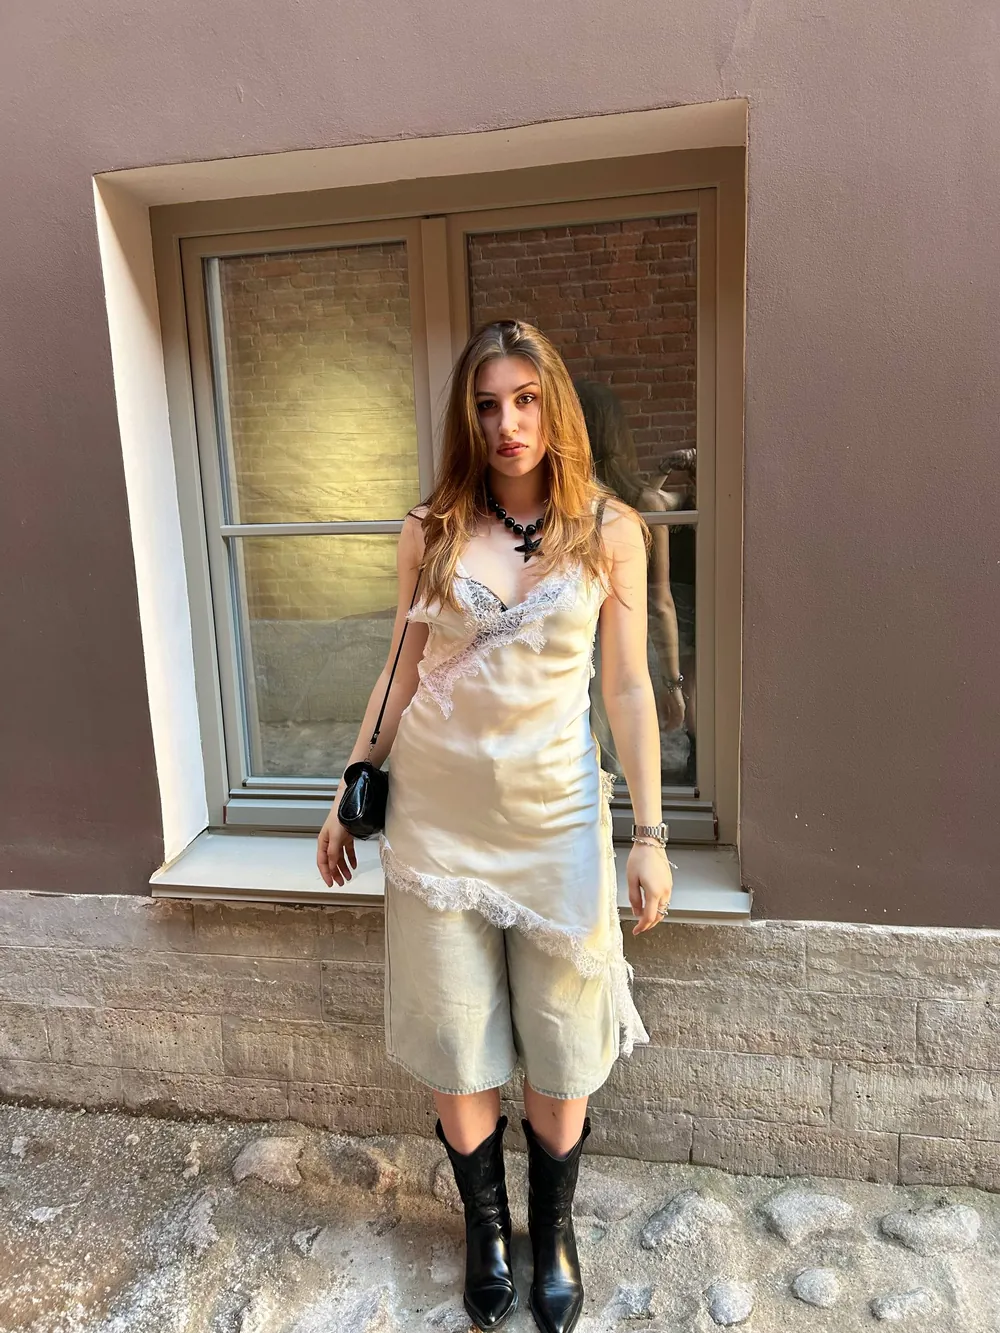
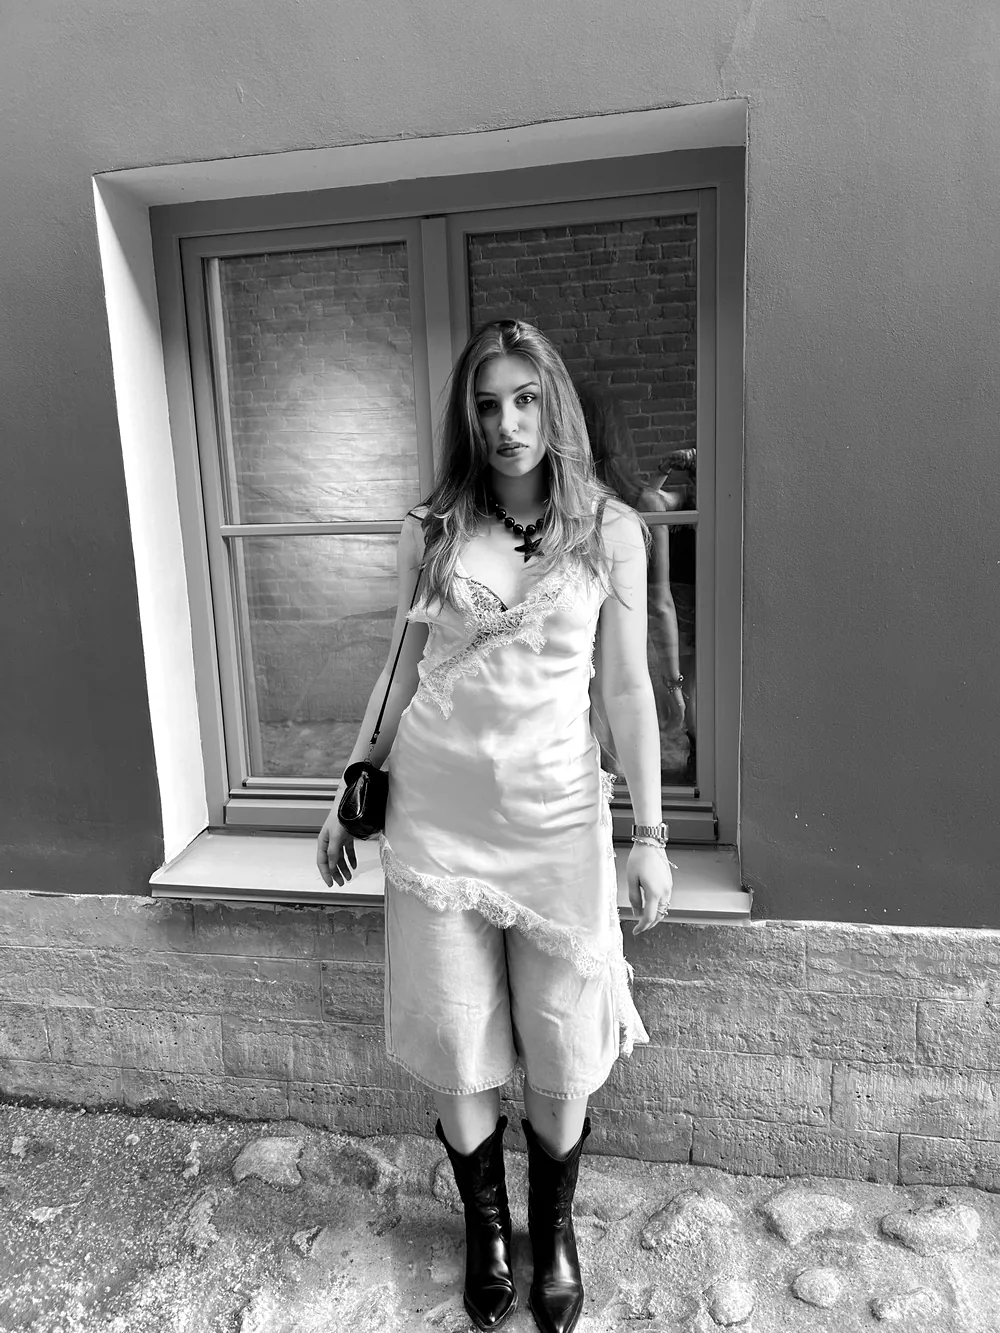
Вольтна: логотип на обложке и в кейсе; фото «Обо мне» в ч/б
Карта площадки перенесена в материалы кейса.

Claude-Session: https://claude.ai/code/session_015zZ5Pzd8E1bGNfEnNc31Jt

diff --git a/js/content.js b/js/content.js
@@ -310,7 +310,8 @@ window.CONTENT = {
 
     {
       slug: 'voltna',
-      thumb: 'img/voltna-site-map-card.webp',
+      thumb: 'img/voltna-logo.webp',
+      thumbFit: 'contain',
       card: {
         ru: { title: 'Фестиваль «Вольтна»', period: 'апр–июн 2026', type: 'Концепция', line: 'Концепция серф-музыкального фестиваля во Владивостоке: название, айдентика, план площадки, смета' },
         en: { title: 'VOLTNA festival', period: 'Apr–Jun 2026', type: 'Concept', line: 'Concept for a surf and music festival in Vladivostok: name, identity, site plan, budget' }
@@ -357,11 +358,11 @@ window.CONTENT = {
         ru: 'Готовая концепция фестиваля, защищённая в университете: от названия и карты площадки до бюджета и плана развития на три года.',
         en: 'A complete festival concept, defended at the university: from the name and site map to the budget and a three-year growth plan.'
       },
-      hero: 'img/voltna-site-map.webp',
-      heroLink: true,
+      hero: 'img/voltna-logo.webp',
+      heroFit: 'logo',
       link: { href: 'docs/voltna-presentation.pdf', ru: 'Смотреть презентацию', en: 'View presentation', note: { ru: 'ПДФ, 18 слайдов', en: 'PDF, 18 slides' } },
       docs: [
-        { src: 'img/voltna-logo.webp', ru: 'логотип', en: 'logo', cls: 'doc--logo' },
+        { src: 'img/voltna-site-map.webp', ru: 'план площадки', en: 'site plan', cls: 'doc--wide' },
         { src: 'img/voltna-moodboard.webp', ru: 'мудборд', en: 'moodboard' },
         { src: 'img/voltna-budget-slide.webp', ru: 'смета', en: 'budget' }
       ],

diff --git a/css/style.css b/css/style.css
@@ -244,7 +244,10 @@ button { font: inherit; color: inherit; cursor: pointer; }
 .docs { display: grid; gap: 22px; }
 .doc { margin: 0; background: var(--white); border: 1px solid var(--line); padding: 8px; }
 .doc figcaption { color: var(--ink-2); padding: 8px 2px 0; }
-.doc--logo img { max-height: 120px; width: auto; margin: 10px auto; }
+.card__thumb--contain { background: var(--white); border-bottom: 1px solid var(--line); }
+.card__thumb--contain img { object-fit: contain; object-position: center; padding: 8% 10%; }
+.cs-hero--logo { background: var(--white); border: 1px solid var(--line); padding: 28px 8%; }
+.cs-hero--logo img { max-width: 520px; margin: 0 auto; }
 
 /* табло отправлений */
 .board { background: var(--ink); color: var(--paper); font-family: var(--f-mono); padding: 6px 16px; margin: 0 0 32px; }
@@ -318,7 +321,7 @@ button { font: inherit; color: inherit; cursor: pointer; }
   .board__row--head { display: grid; font-size: 11px; text-transform: uppercase; letter-spacing: .08em; color: rgba(237, 237, 232, .5); padding: 12px 0 10px; }
   .board__fmt, .board__who { padding-left: 0; }
   .docs { grid-template-columns: 1fr 1fr; }
-  .doc--logo { grid-column: 1 / -1; }
+  .doc--wide { grid-column: 1 / -1; }
 }
 
 /* ---------- Десктоп ---------- */

diff --git a/js/app.js b/js/app.js
@@ -81,7 +81,7 @@
     $('#cards').innerHTML = C.cases.map(function (c, i) {
       var t = c.card[lang];
       return '<li class="reveal"><a class="card" href="#' + c.slug + '" data-case="' + c.slug + '">' +
-        (c.thumb ? '<span class="card__thumb">' + img(c.thumb, '').replace('loading="lazy"', 'loading="eager"') + '</span>' : '') +
+        (c.thumb ? '<span class="card__thumb' + (c.thumbFit ? ' card__thumb--' + c.thumbFit : '') + '">' + img(c.thumb, '').replace('loading="lazy"', 'loading="eager"') + '</span>' : '') +
         '<span class="card__meta"><span class="mono card__n">' + pad(i + 1) + '</span>' +
         (t.period ? '<span class="mono">' + esc(t.period) + '</span>' : '') +
         '<span class="pill">' + esc(t.type) + '</span></span>' +
@@ -162,7 +162,7 @@
     h += '<div class="cs-main">';
     if (c.hero) {
       var heroImg = img(c.hero, t.title);
-      h += '<figure class="cs-hero' + (c.heroLink ? ' cs-hero--doc' : '') + '" data-photo>' +
+      h += '<figure class="cs-hero' + (c.heroLink ? ' cs-hero--doc' : '') + (c.heroFit ? ' cs-hero--' + c.heroFit : '') + '" data-photo>' +
         (c.heroLink ? '<a href="' + esc(c.hero) + '" target="_blank" rel="noopener">' + heroImg + '</a>' : heroImg) + '</figure>';
     }
 

diff --git a/tools/prepare_photos.py b/tools/prepare_photos.py
@@ -2,8 +2,8 @@
 """Сжимает фото из photos/ для веба и кладёт в img/<имя>.webp.
 
 Запуск:  python3 tools/prepare_photos.py
-По умолчанию фото переводятся в ч/б. В цвете остаются портреты для первого
-экрана и «Обо мне» и рабочие материалы Вольтны (это документы).
+По умолчанию фото переводятся в ч/б. В цвете остаются главный портрет
+первого экрана и рабочие материалы Вольтны (это документы).
 """
 from pathlib import Path
 from PIL import Image, ImageOps, ImageEnhance
@@ -12,14 +12,16 @@ ROOT = Path(__file__).resolve().parent.parent
 SRC, OUT = ROOT / "photos", ROOT / "img"
 EXTS = {".jpg", ".jpeg", ".png", ".webp", ".tif", ".tiff"}
 
-COLOR = {"portrait-color", "portrait-street"}
+COLOR = {"portrait-color"}
 COLOR_PREFIX = ("voltna-",)
 MAX_W = {"portrait-color": 1200, "portrait-bw": 1200, "portrait-street": 1000,
          "voltna-logo": 1200, "voltna-site-map": 2200}  # карту крупнее, чтобы читались подписи
 # кадрирование (доли ширины/высоты: лево, верх, право, низ)
 CROP = {"portrait-bw": (0.15, 0.34, 0.85, 1.0)}
+# светлый фон -> чистый белый (логотип на белой карточке)
+WHITEN = {"voltna-logo"}
 # дополнительные кадры: имя -> (исходник, кадр, ширина)
-EXTRA = {"voltna-site-map-card": ("voltna-site-map", (0.10, 0.17, 0.62, 0.70), 1000)}
+EXTRA = {}
 
 
 def is_color(stem):
@@ -33,6 +35,10 @@ def process(im, stem, crop=None, limit=1600):
         im = im.crop((round(im.width * l), round(im.height * t), round(im.width * r), round(im.height * b)))
     if im.width > limit:
         im = im.resize((limit, round(im.height * limit / im.width)), Image.LANCZOS)
+    if stem in WHITEN:
+        im = im.convert("RGB")
+        mask = im.convert("L").point(lambda v: 255 if v > 232 else 0)
+        im.paste((255, 255, 255), mask=mask)
     if is_color(stem):
         return im.convert("RGB")
     im = ImageOps.autocontrast(ImageOps.grayscale(im), cutoff=0.5)

diff --git a/CLAUDE.md b/CLAUDE.md
@@ -6,7 +6,7 @@
   В русской версии — только кириллица (исключения: SQL, почта, ник в Телеграме; «В2+» набрано кириллической «В»). В английской — ни одного русского слова.
 - `js/app.js` — рендер главной и кейсов (кейс = полноэкранная панель, адрес `#slug`), RU/EN, копирование email.
 - `css/style.css` — стили, mobile-first. Палитра: бумага #EDEDE8, текст #1B1C17, вторичный #6A6B62, единственный акцент оливковый #7A8B12, мягкий #DDE3B8. Шрифты: Unbounded / Manrope / PT Mono / Caveat (Caveat — не больше 3–4 пометок на страницу). Без второго акцентного цвета, градиентов, эмодзи.
-- `img/` — готовые WebP. По умолчанию ч/б; в цвете — `portrait-color`, `portrait-street` и материалы Вольтны (`voltna-*`). Новые фото: положить исходники в `photos/` (не коммитится) и запустить `python3 tools/prepare_photos.py`.
+- `img/` — готовые WebP. По умолчанию ч/б; в цвете — только главный портрет `portrait-color` и материалы Вольтны (`voltna-*`); обложка Вольтны — логотип. Новые фото: положить исходники в `photos/` (не коммитится) и запустить `python3 tools/prepare_photos.py`.
 - `docs/` — файлы для скачивания (презентация Вольтны).
 
 Перед пушем проверять на ширине 390px (без горизонтального скролла) и на десктопе.
